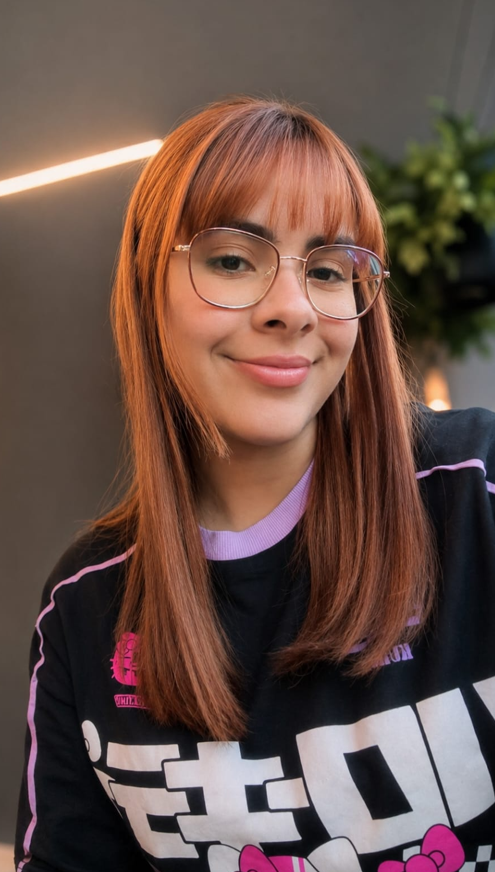
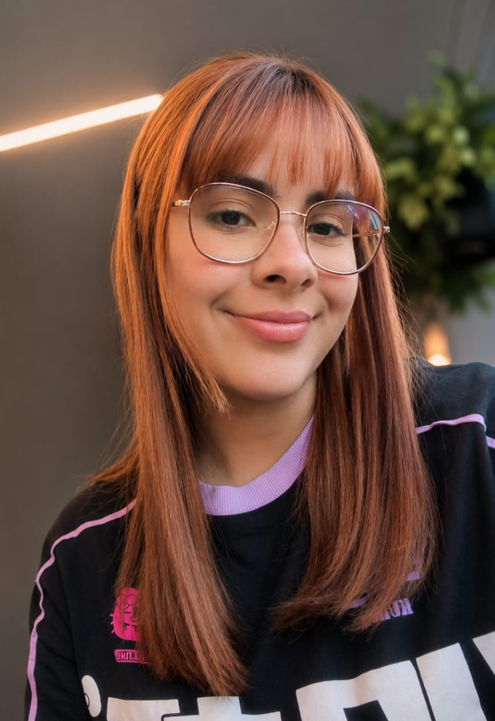
ft

diff --git a/portifolio-ana-julia/src/components/Hero.tsx b/portifolio-ana-julia/src/components/Hero.tsx
@@ -133,15 +133,13 @@ export default function Hero({ lang, onCVClick }: HeroProps) {
               className="relative candy-card p-4 bg-white"
               id="hero-portrait-card"
             >
-              <div className="aspect-[4/5] rounded-[1.5rem] overflow-hidden border-2 border-candy-dark bg-candy-bg">
-                <img 
-                  src=" \public\assets\imgs\foto-perfil.png"
-                  alt="Ana Júlia Ferreira - Full Stack Developer portrait"
-                  referrerPolicy="no-referrer"
-                  className="w-full h-full object-cover transition-transform duration-700 hover:scale-105"
-                  id="hero-portrait-image"
-                />
-              </div>
+              <img 
+                src="/assets/imgs/foto-perfil.png"
+                alt="Ana Júlia Ferreira - Full Stack Developer portrait"
+                referrerPolicy="no-referrer"
+                className="w-full h-full object-cover transition-transform duration-700 hover:scale-105"
+                id="hero-portrait-image"
+              />
 
               {/* Floating Highlight Tag */}
               <div 